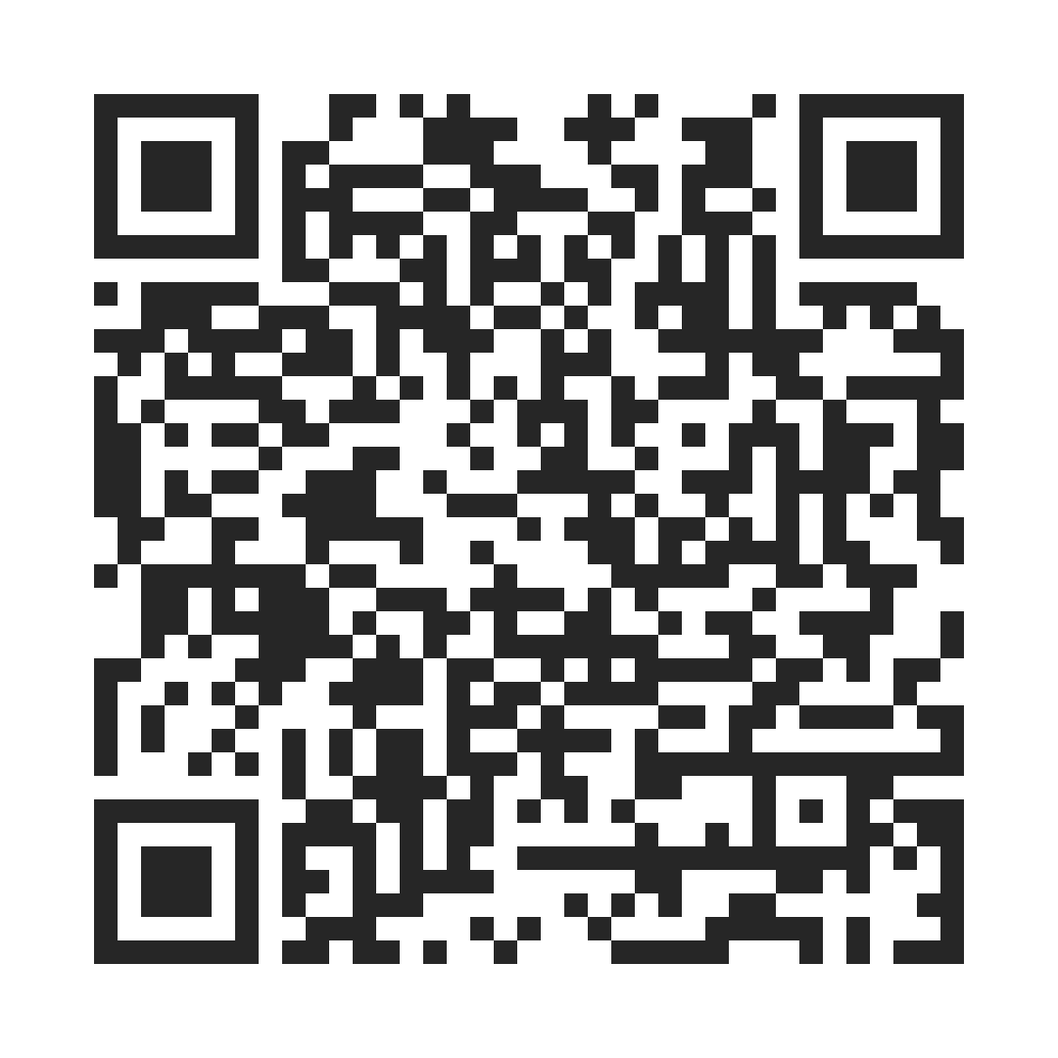
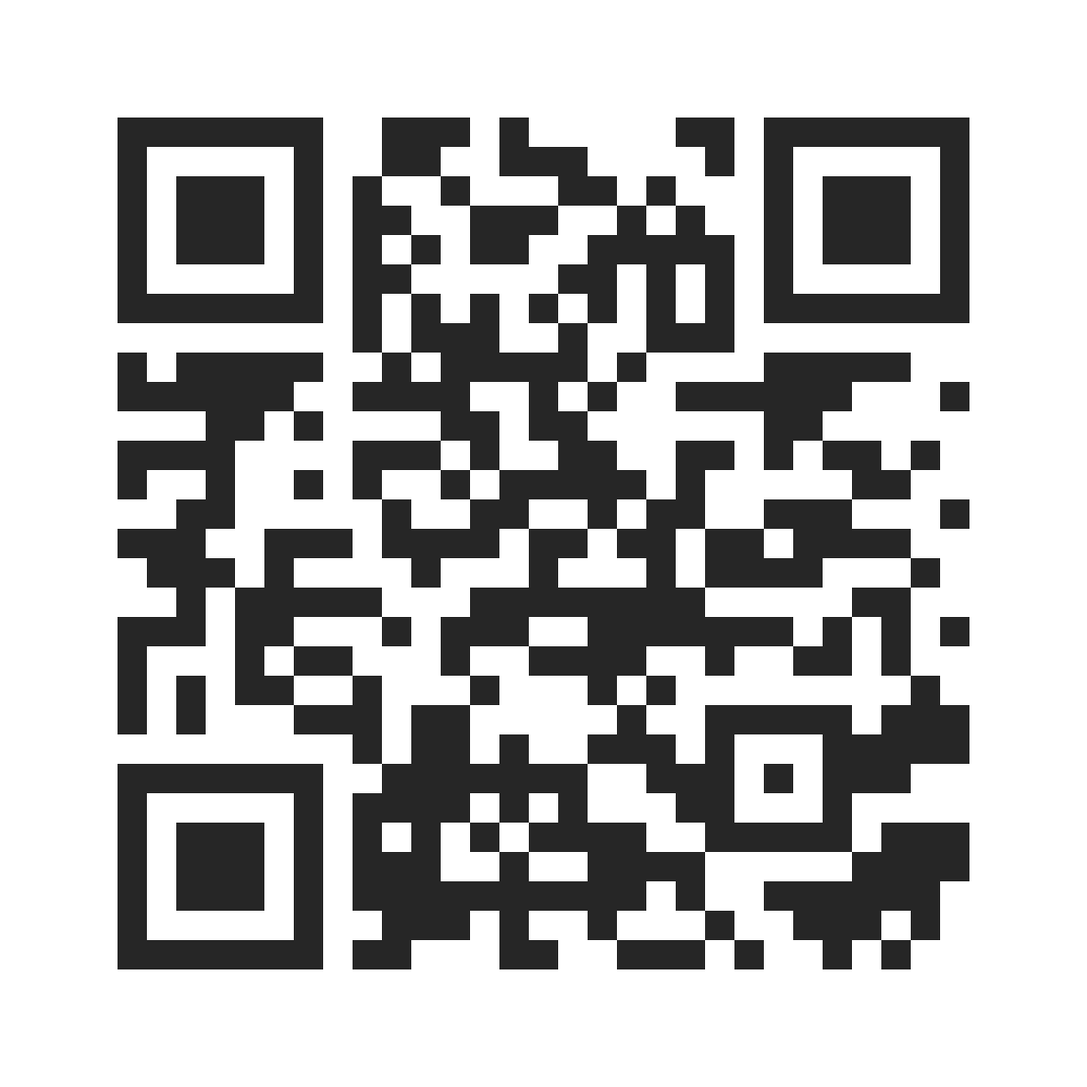
chore: move site to ai-coreteam/ai-coreteam.github.io; root opens official portal
- Repo transferred (owner action) from Gobitangocbao/lg-internal-sales-portal to
  ai-coreteam/ai-coreteam.github.io, so the address bar shows
  ai-coreteam.github.io/portal.html. App code and Apps Script unchanged.
- index.html: root now opens portal.html (owner approved); demo stays at
  /Mau_Dang_Ky_Internal_Sales_3009.html.
- Workflow repo guard updated so the weekly LG.com link refresh keeps running.
- Long-link QR regenerated for the new address; docs updated.
- Tests: regression 156/156, e2e 165/165, harness 98/98.

diff --git a/index.html b/index.html
@@ -3,11 +3,12 @@
 <head>
   <meta charset="UTF-8">
   <meta name="viewport" content="width=device-width, initial-scale=1.0">
-  <meta http-equiv="refresh" content="0; url=Mau_Dang_Ky_Internal_Sales_3009.html">
+  <meta http-equiv="refresh" content="0; url=portal.html">
   <title>LG Internal Sales Portal – Đang chuyển hướng...</title>
   <script>
-    // Tự động chuyển tiếp toàn bộ URL query param (như ?program=...)
-    window.location.replace("Mau_Dang_Ky_Internal_Sales_3009.html" + window.location.search + window.location.hash);
+    // 08/10/2026 (chủ dự án duyệt): trang gốc mở CỔNG CHÍNH THỨC (portal.html). Bản demo: /Mau_Dang_Ky_Internal_Sales_3009.html
+    // Tự động chuyển tiếp toàn bộ URL query param (như ?lang=en)
+    window.location.replace("portal.html" + window.location.search + window.location.hash);
   </script>
 </head>
 <body style="font-family:'LG EI Text', -apple-system, sans-serif; text-align:center; padding:60px 20px; background:#F0ECE4; color:#262626;">
@@ -15,7 +16,7 @@
     <div style="font-size:11px; font-weight:700; color:#A50034; letter-spacing:0.08em; text-transform:uppercase; margin-bottom:8px;">LG ELECTRONICS VIETNAM</div>
     <h2 style="font-size:18px; margin:0 0 10px 0; color:#262626;">Đang chuyển hướng đến Cổng Bán Hàng Nội Bộ...</h2>
     <p style="font-size:13px; color:#716F6A; margin-bottom:20px;">Hệ thống đang mở phiên bản chính thức mới nhất.</p>
-    <a href="Mau_Dang_Ky_Internal_Sales_3009.html" style="display:inline-block; background:#A50034; color:#FFFFFF; text-decoration:none; padding:10px 24px; border-radius:8px; font-size:13px; font-weight:600;">Mở Cổng Đăng Ký Ngay →</a>
+    <a href="portal.html" style="display:inline-block; background:#A50034; color:#FFFFFF; text-decoration:none; padding:10px 24px; border-radius:8px; font-size:13px; font-weight:600;">Mở Cổng Đăng Ký Ngay →</a>
   </div>
 </body>
 </html>

diff --git a/docs/04-v1-hardening/V1_RELEASE_RUNBOOK.md b/docs/04-v1-hardening/V1_RELEASE_RUNBOOK.md
@@ -30,9 +30,9 @@
 | Mã nguồn (web + Code.gs) | Git tag **`checkpoint-pre-v1-hardening-20261005`** (commit `5404e1a`) và nhánh **`backup/pre-v1-hardening-20261005`** | `git checkout checkpoint-pre-v1-hardening-20261005 -- Mau_Dang_Ky_Internal_Sales_3009.html apps-script/Code.gs` rồi commit; hoặc quay hẳn: `git switch main` (main chưa bị sửa) |
 | Dữ liệu Google Sheet | Bản sao **"LG Internal Sales Database - BACKUP 2026-10-05 (pre-v1-hardening) - KHONG SUA"** (ID `1WIUrSzTYxqKKtt5RbJ2bF2xZiZRVpXC_pxFdpQQ9lL4`, riêng tư) | Sao chép dữ liệu từ bản backup sang Sheet chính (không xóa Sheet chính) |
 | **Bản mới nhất v2.0** (06/10/2026) — giao diện v2 bật mặc định | Git tag **`v2.0`** · Apps Script chính thức **Version 7** (không đổi từ v1.1) | **Từng người:** thêm `?ui=v1` vào link (tức thì). **Tất cả:** đổi `var UI_V2_DEFAULT = true;` → `false` trong `Mau_Dang_Ky_Internal_Sales_3009.html`, chạy 3 bộ test, build `portal.html`, push. **Bỏ hẳn code v2:** build `portal.html` từ tag `v1.4` |
-| **Link ngắn `ai-coreteam.github.io`** (08/10/2026) | GitHub Organization **`ai-coreteam`** (chủ: tài khoản `Gobitangocbao`), kho mã **`ai-coreteam/ai-coreteam.github.io`**: chỉ có `index.html` + `404.html` chuyển sang `…/lg-internal-sales-portal/portal.html`, giữ `?lang=`. Không chứa dữ liệu hay chức năng; web, Apps Script không đổi. Đã kiểm 08/10: 8/8 (gốc, `?lang=en`, đường dẫn sai, http; máy tính + điện thoại). Mã QR: `assets/qr/` | **Đổi đích** (vd. tên miền LG sau này): sửa link trong 2 file của kho đó → push. **Tắt link ngắn:** xoá kho hoặc tắt Pages; link dài và mã QR link dài vẫn chạy. **Không xoá / đổi tên Organization** khi còn mã QR đã in |
+| **Địa chỉ web mới `ai-coreteam.github.io`** (08/10/2026, chủ dự án duyệt) | Kho mã dự án **chuyển** từ `Gobitangocbao/lg-internal-sales-portal` sang Organization **`ai-coreteam`**, tên **`ai-coreteam/ai-coreteam.github.io`** (chủ dự án bấm chuyển; Organization do tài khoản `Gobitangocbao` quản trị). Link chính thức: `https://ai-coreteam.github.io/portal.html`; trang gốc `https://ai-coreteam.github.io` mở thẳng cổng (`index.html`); bản demo: `/Mau_Dang_Ky_Internal_Sales_3009.html`. Chỗ cũ `Gobitangocbao/lg-internal-sales-portal` nay là kho **chỉ chuyển tiếp** (giữ đường dẫn + `?lang=`) để link / mã QR cũ vẫn chạy. Kho `ai-coreteam/short-link-backup` = trang chuyển tiếp cũ, đã tắt Pages. Web, Apps Script không đổi. Remote `gobita` trên máy trỏ kho mới | **Quay lại:** chuyển kho ngược về `Gobitangocbao` (Settings → Transfer) sau khi xoá / đổi tên kho chuyển tiếp ở chỗ cũ. **Không xoá / đổi tên Organization `ai-coreteam`** khi còn mã QR đã in. Đổi sang tên miền LG sau này: thêm Custom domain trong Pages của kho này |
 | **v2.4.0 — Tiếng Anh (nút VI/EN)** (08/10/2026) | Git tag **`v2.4.0`** (nhánh `i18n/en` tạo từ `v2-final`). Chỉ đổi web: `assets/i18n/i18n.js` (lớp dịch), `assets/i18n/en.js` (từ điển, sinh từ `en_source.json` bằng `scripts/i18n_build.py`), 2 nút VI/EN, bộ lọc tab 3 (Q-I7). **Apps Script không đổi** (vẫn Version 10) | **Từng người:** bấm **VI** hoặc mở link `?lang=vi` (tức thì). **Tắt cho tất cả:** trong `Mau_Dang_Ky_Internal_Sales_3009.html` đổi `var I18N_ENABLED = true;` → `false` → build `portal.html` → `git pull --ff-only gobita main` → push (≈ 5 phút; nút ẩn, trang chạy đúng bản tiếng Việt). **Bỏ hẳn:** build `portal.html` từ tag `v2-final` |
-| **v2.2.2 — Bảng link LG.com tự cập nhật** (07/10/2026) | Git tag **`v2.2.2`** · `.github/workflows/lgcom-links-refresh.yml`: thứ Hai 08:00 VN tải sitemap LG.com/vn trên máy chủ GitHub (thử 07/10: HTTP 200) → chỉ khi link đổi mới commit `assets/content/lgcom_product_links.json` + yêu cầu Pages build. Dừng (email báo lỗi, web giữ bảng cũ) nếu bị chặn / sitemap hỏng / số trang giảm > 30%. Chỉ chạy trên repo Gobitangocbao | **Trước mỗi lần push từ máy cục bộ:** `git pull --ff-only gobita main`. **Tắt:** GitHub → Actions → workflow → "Disable workflow". **Bị LG.com chặn:** mở sitemap bằng trình duyệt → lưu → `python3 scripts/build_product_links.py --sitemap-file sitemap.xml` → push. Không ảnh hưởng chức năng web (chỉ là link xem thông tin) |
+| **v2.2.2 — Bảng link LG.com tự cập nhật** (07/10/2026) | Git tag **`v2.2.2`** · `.github/workflows/lgcom-links-refresh.yml`: thứ Hai 08:00 VN tải sitemap LG.com/vn trên máy chủ GitHub (thử 07/10: HTTP 200) → chỉ khi link đổi mới commit `assets/content/lgcom_product_links.json` + yêu cầu Pages build. Dừng (email báo lỗi, web giữ bảng cũ) nếu bị chặn / sitemap hỏng / số trang giảm > 30%. Chỉ chạy trên repo chính (từ 08/10/2026: `ai-coreteam/ai-coreteam.github.io`) | **Trước mỗi lần push từ máy cục bộ:** `git pull --ff-only gobita main`. **Tắt:** GitHub → Actions → workflow → "Disable workflow". **Bị LG.com chặn:** mở sitemap bằng trình duyệt → lưu → `python3 scripts/build_product_links.py --sitemap-file sitemap.xml` → push. Không ảnh hưởng chức năng web (chỉ là link xem thông tin) |
 | **v2.2 — Apps Script chính thức Version 10 ĐÃ DEPLOY 22:54 06/10/2026** (chủ dự án; cùng Deployment ID / URL). `organizeReceiptsByProgram` đã chạy 22:55: chuyển 3 file vào `IS-2026Q4-OTHER-01 - …`; 1 file không khớp đơn nào (`BL_…-AYA-001_VH11111_…jpg`, tài khoản test) chủ dự án đã chuyển vào Thùng rác. Sheet chính thức đã về **Restricted** (kiểm tra: tải CSV không đăng nhập → HTTP 401). **Nghiệm thu trên Drive thật (chủ dự án, 06/10/2026):** nút "Xem biên lai" vẫn mở đúng file sau khi chuyển thư mục; lần nộp biên lai mới của OTHER-02 tự tạo thư mục `IS-2026Q4-OTHER-02 - …` cạnh thư mục OTHER-01 | Git tag **`v2.2`** · Biên lai chia thư mục theo chương trình: `Bien lai nop tien / <ProgramID> - <Tên chương trình> / BL_…` (tự tạo lần nộp đầu; tìm theo tiền tố ProgramID nên đổi tên vẫn khớp; kế thừa quyền Restricted của thư mục gốc; không xác định được chương trình → thư mục gốc như cũ) · hàm chạy tay `organizeReceiptsByProgram` chuyển file cũ theo cột Receipt Link (link không đổi) | **Deploy:** dán `apps-script/Code.gs` → Manage deployments → ✏ Edit → New version (**Version 10**) → Deploy. Sau đó chọn hàm `organizeReceiptsByProgram` → Run (1 lần). Không cần cấp quyền mới (đã dùng DriveApp). **Quay lại:** Edit → Version 9 (thư mục con vẫn còn, V9 lưu file mới vào thư mục gốc) |
 | **v2.1.2 — Apps Script chính thức Version 9 ĐÃ DEPLOY 22:21 06/10/2026** (chủ dự án; cùng Deployment ID / URL) | Git tag **`v2.1.2`** · Registrations **cột W "Serial"** (bản chụp serial lúc đăng ký; bên giao hàng mở sheet là thấy) · hàm chạy tay `syncSerialsToRegistrations` (điền W còn trống theo Mã Slot, không ghi đè). Sheet chính thức đã có tiêu đề W1 / Slots L1 / Products M1 | **Deploy:** dán `apps-script/Code.gs` → Manage deployments → ✏ Edit → New version (**Version 9**) → Deploy. **Sau khi nhập serial vào Products cột M:** chọn hàm `syncSerialsToRegistrations` → Run. **Quay lại:** Edit → Version 8 (cột W vẫn còn, Version 8 bỏ qua) |
 | **v2.0.6 + v2.1 — Apps Script chính thức Version 8 ĐÃ DEPLOY 21:33 06/10/2026** (chủ dự án; Deployment ID khớp URL trong `portal.html`; kiểm tra chỉ đọc: ping OK, danh mục 2 chương trình trả trường `serial` = code V8, polling OK). **Quay lại: Edit → Version 7.** Sản phẩm nạp trước V8 chưa có serial | Git tag **`v2.0.6`**, **`v2.1`** · v2.1: Products thêm **cột M "Serial"** (tự tạo khi nạp sản phẩm lần đầu; 12 cột cũ giữ nguyên vị trí), serial trả kèm danh mục / Dashboard PM / tra cứu đơn / email. **Deploy V8 TRƯỚC khi PM nạp danh mục có serial.** v2.0.6: `Code.gs` thêm `asText_()`: ghi "Thời gian nộp" và "Ngày PM duyệt" dạng chữ (Google Sheet tự đổi `06/10/2026` thành 10/06). Web chạy được với cả Version 7 lẫn bản mới | **Deploy (chủ dự án):** (1) Staging: dán `apps-script/Code.gs` → Manage deployments → ✏ Edit → New version → khai nộp 1 đơn có Ngày giờ `06/10/2026 15:00:00` → ô cột Q trong Sheet hiện đúng `06/10/2026 15:00:00`, căn trái (chữ). (2) Chính thức: ghi lại **Version 7** → dán code → Edit → New version (**Version 8**) → Deploy (URL giữ nguyên). **Quay lại:** Edit → chọn Version 7 → Deploy. Dòng thử nghiệm cũ đã bị đổi thành ngày (vd. "Wed Jun 10 2026") không tự sửa — xóa / gõ lại trước ngày mở bán |
@@ -108,7 +108,7 @@ Sheet staging đã tạo sẵn: **"LG Internal Sales Database - STAGING (test ta
 | 5b | **Cài đồng hồ quét quá hạn 24h** (bắt buộc, chỉ làm 1 lần cho mỗi dự án Apps Script) | Chọn hàm **`setupWatchdogTrigger`** → **Run** | Biểu tượng đồng hồ (Triggers): **đúng 1 dòng** `runExpirationWatchdog`, Time-based. Sau ~1 giờ: Last run có giờ, Error rate 0% |
 | 6 | Kiểm tra tab `Config` | Không có `ALLOW_DEMO_TOKENS` (hoặc = `false`) · `ENABLE_AUTO_EMAIL` theo quyết định (mục 4) | — |
 | 7 | Sinh bản cho nhân viên | `python3 scripts/build_production.py --api-url <URL /exec chính thức>` → tạo `portal.html` | Script in "Đã tách 8 khóa bộ nhớ trình duyệt khỏi bản demo" và "Kiểm tra: không còn mật khẩu demo…" |
-| 8 | Đưa `portal.html` lên GitHub Pages (**chỉ sau khi bước 0 xong — không còn tài khoản `test123`**) | Commit `portal.html` → push (sau khi chủ dự án duyệt) | Link: `https://gobitangocbao.github.io/lg-internal-sales-portal/portal.html` |
+| 8 | Đưa `portal.html` lên GitHub Pages (**chỉ sau khi bước 0 xong — không còn tài khoản `test123`**) | Commit `portal.html` → push (sau khi chủ dự án duyệt) | Link: `https://ai-coreteam.github.io/portal.html` (từ 08/10/2026; trước đó `https://gobitangocbao.github.io/lg-internal-sales-portal/portal.html`) |
 | 9 | Nạp danh sách nhân viên thật vào tab `Users` | Sheet đã ở chế độ **Restricted** (05/10) | Chỉ Admin/HR có quyền |
 | 10 | Kiểm tra cuối | Mở `portal.html` ở cửa sổ ẩn danh → đăng nhập 1 tài khoản thật → thấy danh mục; thử `VH12345/test123` → **bị từ chối** | Cả hai đúng |
 | 11 | **Khởi động máy chủ** 10 phút trước giờ mở bán | Mở `portal.html` và đăng nhập 1–2 lần (đo 05/10: lượt đầu sau thời gian nghỉ có thể chậm 33–37 s) | Lượt sau phản hồi ≤ 3 s |

diff --git a/docs/01-setup-and-deployment/GIT_CONFIGURATION_AND_HANDOVER.md b/docs/01-setup-and-deployment/GIT_CONFIGURATION_AND_HANDOVER.md
@@ -12,8 +12,8 @@ Hệ thống mã nguồn được kết nối song song với 2 remote repositor
 ```mermaid
 graph LR
     LocalWorkspace[Local Workspace trên Laptop] -->|git push all main| RemoteOrigin[origin: minhhienlge/lg-internal-sales-portal<br/>Kho nguồn chính LGEVH]
-    LocalWorkspace -->|git push all main| RemoteGobita[gobita: Gobitangocbao/lg-internal-sales-portal<br/>Kho phát hành & GitHub Pages]
-    RemoteGobita -->|Tự động biên dịch .nojekyll| LiveWeb[🌐 Live Web Production<br/>https://gobitangocbao.github.io/lg-internal-sales-portal/]
+    LocalWorkspace -->|git push all main| RemoteGobita[gobita: ai-coreteam/ai-coreteam.github.io<br/>Kho phát hành & GitHub Pages]
+    RemoteGobita -->|Tự động biên dịch .nojekyll| LiveWeb[🌐 Live Web Production<br/>https://ai-coreteam.github.io/]
 ```
 
 ### Bảng thông số cấu hình mạng Git:
@@ -21,10 +21,10 @@ graph LR
 | Thuộc tính | Giá trị cấu hình | Ý nghĩa & Vai trò |
 |---|---|---|
 | **Remote 1 (`origin`)** | `https://github.com/minhhienlge/lg-internal-sales-portal.git` | Kho lưu trữ chính của chủ dự án LG Electronics Việt Nam. |
-| **Remote 2 (`gobita`)** | `https://github.com/Gobitangocbao/lg-internal-sales-portal.git` | Kho phát hành công khai phục vụ máy chủ GitHub Pages Live. |
+| **Remote 2 (`gobita`)** | `https://github.com/ai-coreteam/ai-coreteam.github.io.git` | Kho phát hành công khai phục vụ máy chủ GitHub Pages Live. |
 | **Remote Kép (`all`)** | Chứa cả 2 URL `origin` và `gobita` | Cho phép đẩy mã nguồn lên **đồng thời cả 2 kho** chỉ với 1 câu lệnh `git push all main`. |
 | **Nhánh mặc định (Branch)** | `main` | Nhánh sản xuất chính thức của toàn bộ dự án. |
-| **Website Go-Live** | `https://gobitangocbao.github.io/lg-internal-sales-portal/` | Đường dẫn trực tuyến công khai kiểm thử trên mọi thiết bị. |
+| **Website Go-Live** | `https://ai-coreteam.github.io/` | Đường dẫn trực tuyến công khai kiểm thử trên mọi thiết bị. |
 | **Trang đích điều hướng** | `index.html` → `Mau_Dang_Ky_Internal_Sales_3009.html` | Tự động chuyển hướng không giật trang, giữ nguyên query URL. |
 | **Cấu hình Static Host** | Tệp `.nojekyll` tại thư mục gốc | Bỏ qua trình biên dịch Jekyll của GitHub, giữ nguyên 100% cấu trúc tệp tĩnh. |
 
@@ -88,7 +88,7 @@ git commit -m "fix(brand): chỉnh sửa giao diện theo chuẩn LG BI V5.2"
 
 ### Bước 5: Đẩy lên cả 2 remote chỉ bằng 1 lệnh
 ```bash
-# Đẩy đồng thời lên cả origin (minhhienlge) và gobita (Gobitangocbao)
+# Đẩy đồng thời lên cả origin (minhhienlge) và gobita (ai-coreteam)
 git push all main
 ```
 *Lưu ý: Nếu remote `all` chưa được nhận diện, có thể chạy lần lượt:*
@@ -127,10 +127,10 @@ git clone https://github.com/minhhienlge/lg-internal-sales-portal.git
 cd lg-internal-sales-portal
 
 # Thiết lập remote kép để sau này push đồng bộ 1 chạm
-git remote add gobita https://github.com/Gobitangocbao/lg-internal-sales-portal.git
+git remote add gobita https://github.com/ai-coreteam/ai-coreteam.github.io.git
 git remote add all https://github.com/minhhienlge/lg-internal-sales-portal.git
 git remote set-url --add --push all https://github.com/minhhienlge/lg-internal-sales-portal.git
-git remote set-url --add --push all https://github.com/Gobitangocbao/lg-internal-sales-portal.git
+git remote set-url --add --push all https://github.com/ai-coreteam/ai-coreteam.github.io.git
 ```
 
 ### Bước 3: Tạo CSDL Google Sheet độc lập cho PIC mới (Zero-Pervasive-Access)
@@ -166,7 +166,7 @@ PIC mới có thể bắt đầu vận hành ngay với các tài khoản thử 
 | **Đẩy code lên đồng thời cả 2 kho** | `git push all main` |
 | **Đẩy riêng cho từng kho** | `git push origin main` và `git push gobita main` |
 | **Kiểm tra nhật ký commit gần nhất** | `git log -n 5 --oneline` |
-| **Kiểm tra trạng thái máy chủ GitHub Pages** | `gh api repos/Gobitangocbao/lg-internal-sales-portal/pages/builds/latest` |
+| **Kiểm tra trạng thái máy chủ GitHub Pages** | `gh api repos/ai-coreteam/ai-coreteam.github.io/pages/builds/latest` |
 | **Chạy Web Server cục bộ thử nghiệm** | `python3 -m http.server 8000` |
 
 ---

diff --git a/docs/CURRENT_STATE.md b/docs/CURRENT_STATE.md
@@ -7,7 +7,7 @@
 | Phiên bản | **v2 ĐÃ CHỐT** — git tag **`v2-final`** = `v2.3.1` (07/10/2026). Lịch sử: v1.1 → v1.4 (gia cố) → v2.0 (giao diện mới) → v2.0.1–v2.3.1 (favicon, thẻ GRAP, Nộp tiền ngay tự điền biên lai, tab 1 hàng, Xuất Excel .xlsx, giờ VN, Serial Number, biên lai theo thư mục chương trình, link LG.com tự cập nhật, VietQR Tab 3, tiền chuẩn VN). Chi tiết từng bản: [04-v1-hardening/README.md](04-v1-hardening/README.md). **08/10: v2.4.0 = thêm tiếng Anh (nút VI/EN)**, chỉ đổi web → [design/I18N_EN_FEASIBILITY.md](../design/I18N_EN_FEASIBILITY.md) §9; chờ chủ dự án duyệt bản dịch Tab 1 ([design/i18n/TAB1_EN_REVIEW.md](../design/i18n/TAB1_EN_REVIEW.md)). Bước tiếp theo (TẠM DỪNG, chờ chủ dự án trả lời): **v3 giao diện điện thoại** → [design/V3_PENDING_DECISIONS.md](../design/V3_PENDING_DECISIONS.md) |
 | Trạng thái | Web `portal.html` = tag `v2.4.0` trên GitHub Pages (tiếng Việt mặc định; tắt tiếng Anh cho tất cả: `I18N_ENABLED = false`, Runbook §1). Apps Script chính thức **Version 10** (quay lại: Version 9). Bảng link LG.com tự cập nhật thứ Hai 08:00 (GitHub Actions) — trước khi push: `git pull --ff-only gobita main`. Mọi thay đổi v3 bắt đầu từ tag `v2.4.0`, và mọi chữ mới / đổi phải thêm vào từ điển EN (`assets/i18n/en_source.json`, quét `scripts/i18n_collect.py` = 0) |
 | Máy chủ (cập nhật 07/10/2026) | Apps Script chính thức **Version 10** (22:54 06/10/2026; quay lại: Version 9). V8: thời gian nộp / ngày PM duyệt ghi dạng chữ + Serial cột M Products. V9: serial ghi cột W Registrations khi đăng ký (`syncSerialsToRegistrations` điền đơn cũ). V10: biên lai lưu theo thư mục `Bien lai nop tien/<ProgramID> - <Tên>` (`organizeReceiptsByProgram` đã chạy). Sheet chính thức: tiêu đề Serial ở `Products!M1`, `Registrations!W1`, `Slots!L1` (dạng Text); quyền chia sẻ **Restricted**. **Dữ liệu TEST cần xóa / thay trước 14/10:** serial ở Products M (OTHER-01 = serial file mẫu, OTHER-02 = `TEST-…`), các dòng đơn test, chương trình test |
-| Link nhân viên (chính thức) | `https://gobitangocbao.github.io/lg-internal-sales-portal/portal.html` — gửi đúng link này, **không kèm `?ui=v2`** (v2 đã mặc định; tham số này chặn việc quay lại v1.4). Link gốc `…/lg-internal-sales-portal/` là **bản demo**, không phải bản chính thức. **Link ngắn (08/10):** `https://ai-coreteam.github.io` → tự mở link chính thức (giữ `?lang=en`); mã QR trong `assets/qr/` |
+| Link nhân viên (chính thức) | `https://ai-coreteam.github.io/portal.html` (từ 08/10/2026; link cũ `gobitangocbao.github.io/lg-internal-sales-portal/…` tự chuyển sang) — gửi đúng link này, **không kèm `?ui=v2`** (v2 đã mặc định; tham số này chặn việc quay lại v1.4). **Link ngắn = trang gốc** `https://ai-coreteam.github.io` → mở cổng chính thức (giữ `?lang=en`); mã QR trong `assets/qr/`. Bản demo: `…/Mau_Dang_Ky_Internal_Sales_3009.html` |
 | Giao diện v2 | **Bật cho mọi người từ 06/10/2026 (tag `v2.0`)** — chủ dự án duyệt để toàn bộ người dùng test. Chức năng như v1.4. Xem giao diện cũ: thêm `?ui=v1` vào link. Quay lại v1.4 cho tất cả: `UI_V2_DEFAULT = false` → test → build `portal.html` → push ([Runbook §1](04-v1-hardening/V1_RELEASE_RUNBOOK.md)). Thiết kế: [`design/UI_V2_DIRECTION_PROPOSAL.md`](../design/UI_V2_DIRECTION_PROPOSAL.md) |
 | Mở bán | **10:00, 14/10/2026** → hạn chót **17:00, 16/10/2026** (theo Tab 1 của trang) |
 | Khi tài liệu khác mâu thuẫn với trang này | Trang này đúng. Tài liệu trong `03-architecture-and-analysis/` là **lịch sử phân tích**, mỗi file có khung "Trạng thái" ở đầu |

diff --git a/README.md b/README.md
@@ -4,13 +4,13 @@ Hệ thống số hóa toàn diện quy trình đăng ký, giữ chỗ theo nguy
 
 > 📌 **THÔNG TIN MỚI NHẤT (05/10/2026): đọc [`docs/CURRENT_STATE.md`](docs/CURRENT_STATE.md) trước.** Bản v1 đã gia cố trên nhánh `v1-hardening` và đạt kiểm thử trên máy chủ staging; **chưa** triển khai bản chính thức. Mở bán: **10:00 14/10/2026**.
 
-> ✅ **LINK CHÍNH THỨC CHO NHÂN VIÊN (06/10/2026):**  
-> 🔗 **[https://gobitangocbao.github.io/lg-internal-sales-portal/portal.html](https://gobitangocbao.github.io/lg-internal-sales-portal/portal.html)**  
-> 🔗 **Link ngắn (08/10/2026): [ai-coreteam.github.io](https://ai-coreteam.github.io)** — tự mở link chính thức ở trên. Mã QR: [`assets/qr/ai-coreteam_qr_card.png`](assets/qr/ai-coreteam_qr_card.png) (thẻ) · [`ai-coreteam_qr.png`](assets/qr/ai-coreteam_qr.png) (chỉ mã); mã QR link dài: [`portal_qr_card.png`](assets/qr/portal_qr_card.png). Chi tiết: Runbook §1.  
+> ✅ **LINK CHÍNH THỨC CHO NHÂN VIÊN (từ 08/10/2026, kho mã chuyển sang Organization `ai-coreteam`):**  
+> 🔗 **[https://ai-coreteam.github.io/portal.html](https://ai-coreteam.github.io/portal.html)**  
+> 🔗 **Link ngắn: [ai-coreteam.github.io](https://ai-coreteam.github.io)** — trang gốc mở thẳng cổng chính thức. Link cũ `gobitangocbao.github.io/lg-internal-sales-portal/…` tự chuyển sang link mới. Mã QR: [`assets/qr/ai-coreteam_qr_card.png`](assets/qr/ai-coreteam_qr_card.png) (thẻ) · [`ai-coreteam_qr.png`](assets/qr/ai-coreteam_qr.png) (chỉ mã); mã QR link dài: [`portal_qr_card.png`](assets/qr/portal_qr_card.png). Chi tiết: Runbook §1.  
 > *Gửi link này, **không kèm `?ui=v2`**: giao diện v2 đã là mặc định. `?ui=v2` ép v2 kể cả khi phải quay lại v1.4 (`UI_V2_DEFAULT = false`), nên người giữ link có tham số sẽ không nhận bản quay lại. `?ui=v1` chỉ dùng để xem giao diện cũ khi xử lý sự cố.*
 
 > 🚀 **BẢN DEMO TRỰC TUYẾN (đào tạo / thử nghiệm):**  
-> 🔗 **[https://gobitangocbao.github.io/lg-internal-sales-portal/](https://gobitangocbao.github.io/lg-internal-sales-portal/)**  
+> 🔗 **[https://ai-coreteam.github.io/Mau_Dang_Ky_Internal_Sales_3009.html](https://ai-coreteam.github.io/Mau_Dang_Ky_Internal_Sales_3009.html)** (từ 08/10/2026 trang gốc mở bản chính thức, không còn mở bản demo)  
 > *Đây là **bản demo**: mặc định chạy Demo Offline với tài khoản mẫu. Bản chính thức cho nhân viên là `portal.html`, sinh bằng `scripts/build_production.py` (không có tài khoản/dữ liệu demo) — xem [`docs/04-v1-hardening/V1_RELEASE_RUNBOOK.md`](docs/04-v1-hardening/V1_RELEASE_RUNBOOK.md).*
 
 > 🔒 **LƯU Ý BẢO MẬT & BẢN QUYỀN:** Kho lưu trữ chứa thông tin tài khoản ngân hàng thụ hưởng pháp nhân, danh mục sản phẩm và quy trình kiểm toán Jeong-Do. Dữ liệu đã được **khử định danh (sanitized)** toàn diện để có thể triển khai an toàn trên môi trường cá nhân hóa mà không làm rò rỉ dữ liệu cá nhân của bất kỳ ai.

diff --git a/docs/02-user-and-pm-guide/SO_TAY_VAN_HANH_NGAY_MO_BAN.md b/docs/02-user-and-pm-guide/SO_TAY_VAN_HANH_NGAY_MO_BAN.md
@@ -4,7 +4,7 @@
 | | |
 |---|---|
 | Áp dụng cho | Bản **v2.0** — giao diện mới bật cho mọi người 06/10/2026 (chức năng như v1.4). Tên nút / màu: [`PM_AND_USER_OPERATIONAL_GUIDE.md`](PM_AND_USER_OPERATIONAL_GUIDE.md) Phần D |
-| Link nhân viên | `https://gobitangocbao.github.io/lg-internal-sales-portal/portal.html` · link ngắn `https://ai-coreteam.github.io` (mã QR: `assets/qr/ai-coreteam_qr_card.png`) |
+| Link nhân viên | `https://ai-coreteam.github.io` (mở thẳng cổng; mã QR: `assets/qr/ai-coreteam_qr_card.png`) · link đầy đủ `https://ai-coreteam.github.io/portal.html` |
 | Đợt bán | Mở **10:00 ngày 14/10/2026** → kết thúc **17:00 ngày 16/10/2026** |
 | Đối chiếu | Mọi bước dưới đây đã được kiểm tra với mã nguồn ngày 05/10/2026 |
 
